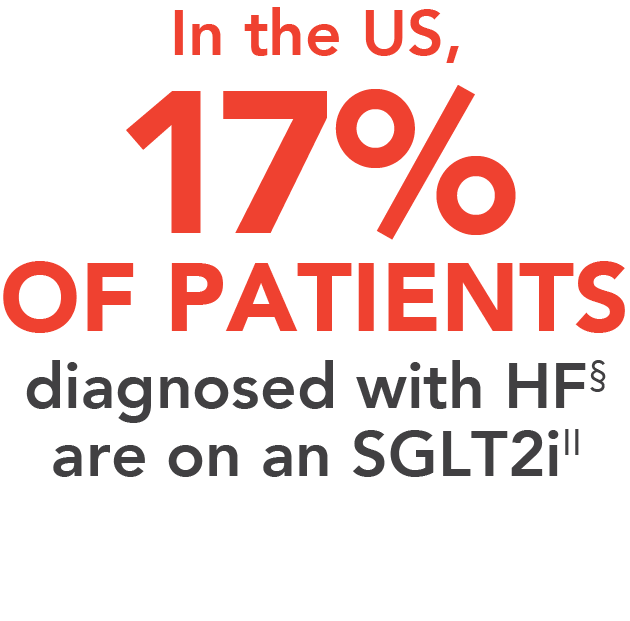
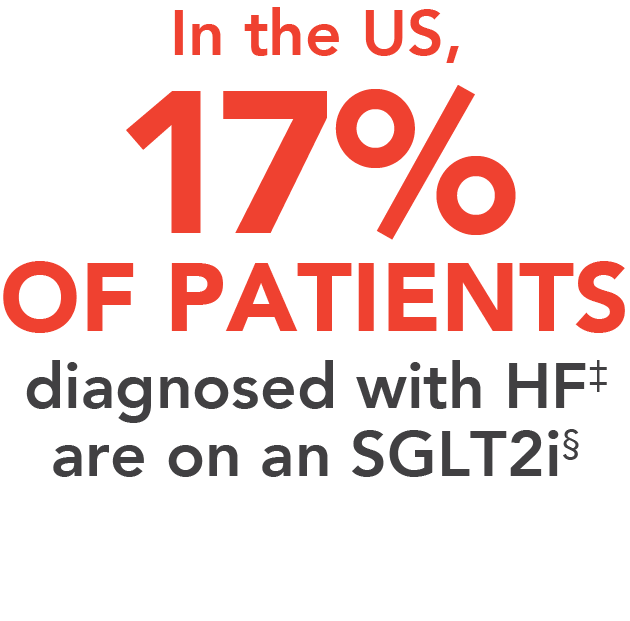
updates

diff --git a/public/index.html b/public/index.html
@@ -14484,7 +14484,7 @@ img.fixed-map {
           let patientsn = stateData.number_of_diagnosed_hf_patients;
           // ADDING THE DYNAMIC DATA TO THE DOM
           $(".map-header h2").text(stateData.state_name);
-          $(".map-header .nofpatients").html(`${patientsn} patients diagnosed with HF<span>§</span>`).addClass('active');
+          $(".map-header .nofpatients").html(`${patientsn} patients diagnosed with HF<span>‡</span>`).addClass('active');
           $(".only-line").html(
             `FOR THE ${100 - stateData.percent_of_patients_on_sglt2i}%<br>OF PATIENTS`
           ).addClass('greentxt');
